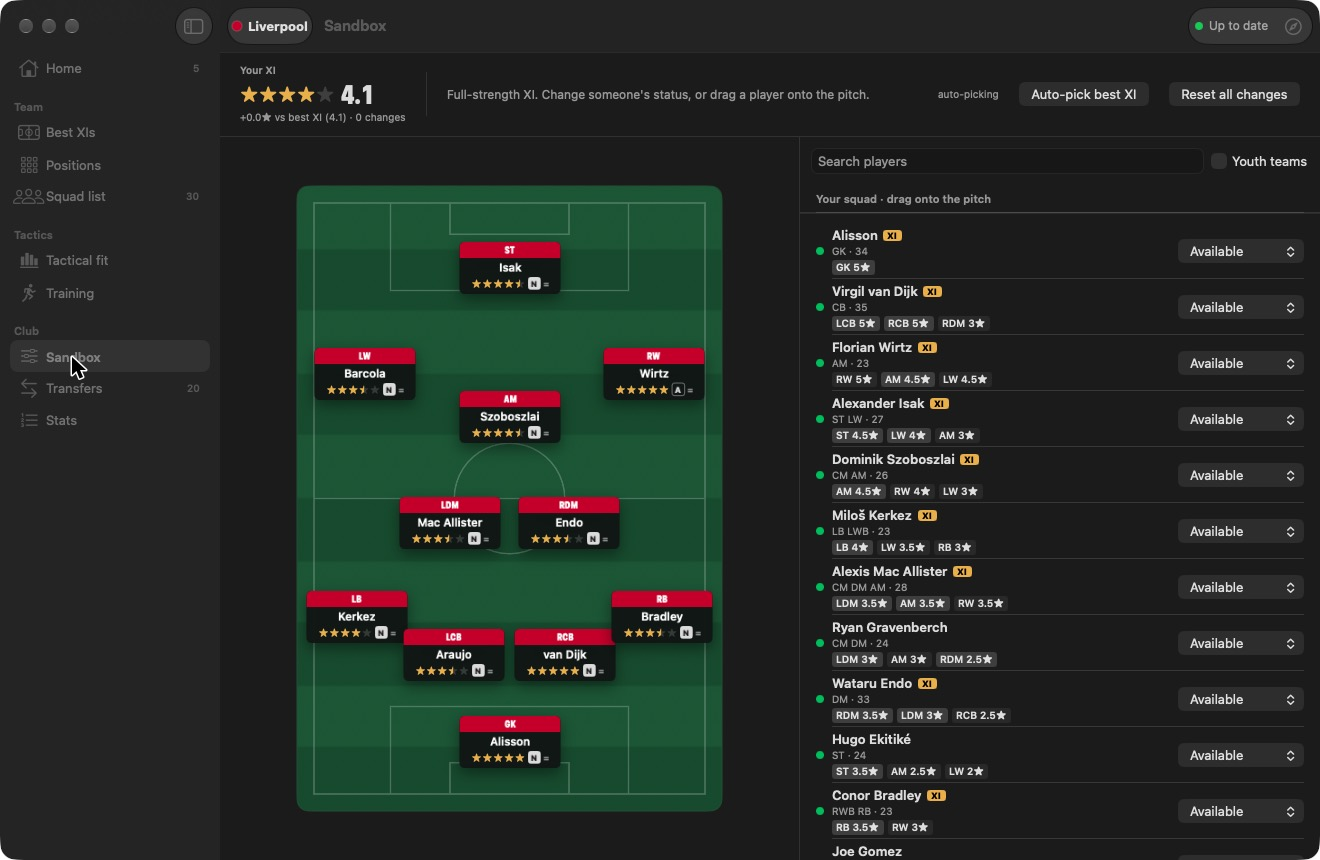
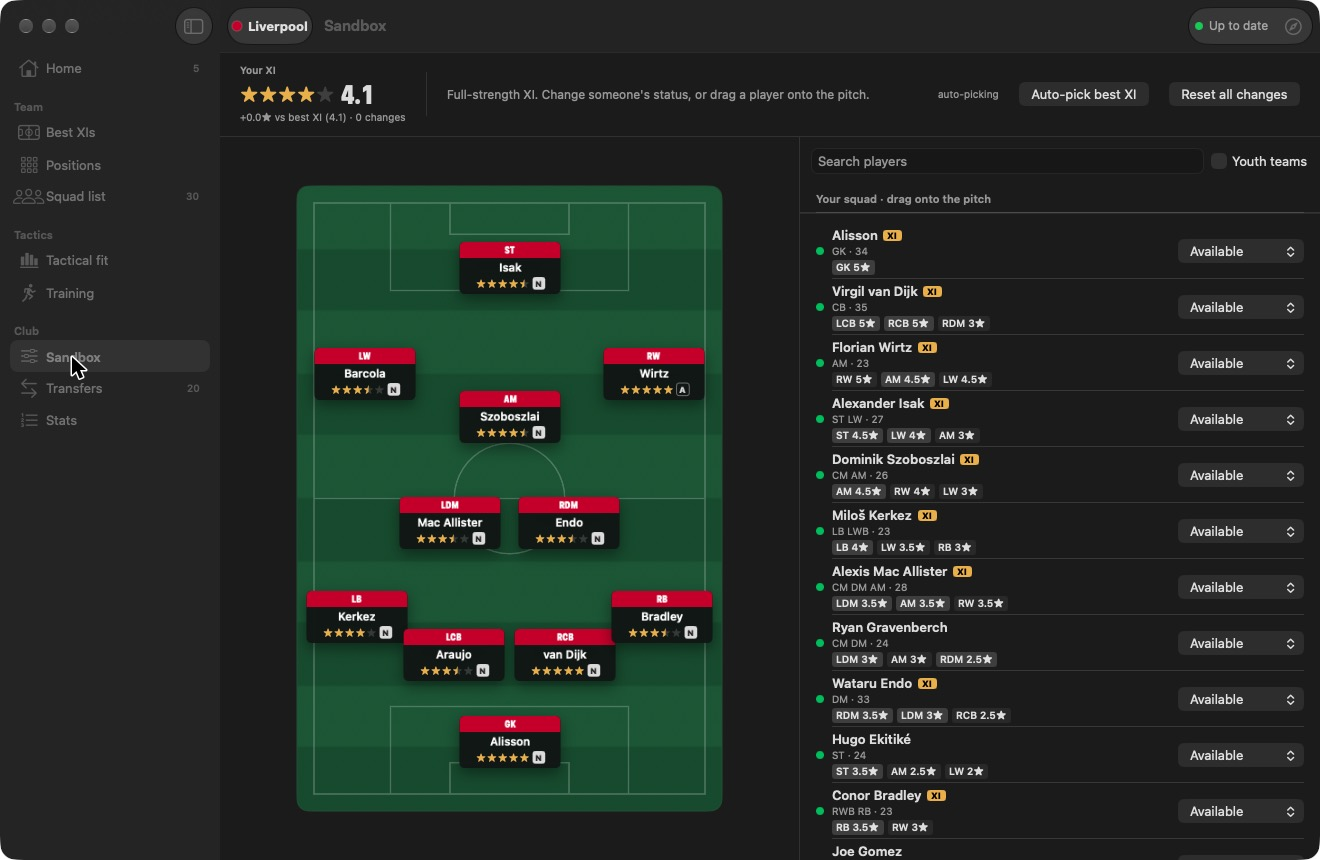
Mac app: real decimal points in the Glass numbers, no "=" on the Sandbox pitch
- Glass look: Doto's low full stop read like a comma ("£5,17m"); NumberText draws
  the "." in Geist Mono, so it's £5.17m and 4.1
- Sandbox pitch: a card only shows ↑/↓ when the slot differs from your best XI
- Fresh screenshots

diff --git a/mac/SquadReport/Views/SandboxView.swift b/mac/SquadReport/Views/SandboxView.swift
@@ -53,7 +53,7 @@ private struct ScoreBar: View {
                 Text("Your XI").font(.caption.weight(.semibold)).foregroundStyle(.secondary)
                 HStack(spacing: 6) {
                     StarsView(value: avg, size: 15)
-                    Text(String(format: "%.1f", avg)).numberFont(26)
+                    NumberText(String(format: "%.1f", avg), size: 26)
                 }
                 Text("\(diff >= 0 ? "+" : "")\(String(format: "%.1f", diff))★ vs best XI (\(String(format: "%.1f", level))) · \(model.changes) change\(model.changes == 1 ? "" : "s")")
                     .font(.caption).foregroundStyle(.secondary)
@@ -133,10 +133,12 @@ private struct SlotCard: View {
                         StarsView(value: rating.stars, size: 9)
                         FamiliarityBadge(code: rating.fam).colorScheme(.dark)
                     }
-                    Text(delta == 0 ? "=" : "\(delta > 0 ? "+" : "−")\(Fmt.stars(abs(delta)))★")
-                        .font(.system(size: 9, weight: .heavy))
-                        .foregroundStyle(delta > 0 ? Palette.transferIn : delta < 0 ? Palette.injuryLong : .secondary)
-                        .help("Against your best XI in this slot")
+                    if delta != 0 {   // only when it differs from your best XI in this slot
+                        Text("\(delta > 0 ? "↑" : "↓")\(Fmt.stars(abs(delta)))★")
+                            .font(.system(size: 9, weight: .heavy))
+                            .foregroundStyle(delta > 0 ? Palette.transferIn : Palette.injuryLong)
+                            .help("\(delta > 0 ? "Better" : "Worse") than your best XI in this slot by \(Fmt.stars(abs(delta)))★")
+                    }
                 }
                 .padding(.bottom, 5)
             }

diff --git a/mac/SquadReport/Views/Components/Theme.swift b/mac/SquadReport/Views/Components/Theme.swift
@@ -201,3 +201,31 @@ enum Fonts {
         CTFontManagerRegisterFontsForURLs(urls as CFArray, .process, nil)
     }
 }
+
+/// A big number in the look's number face. In glass that's Doto, whose dotted full stop sits low and reads like a comma
+/// ("£5,17m"), so the "." is drawn in Geist Mono and sits where a decimal point should.
+struct NumberText: View {
+    let text: String
+    let size: CGFloat
+    @Environment(\.theme) private var theme
+
+    init(_ text: String, size: CGFloat) {
+        self.text = text
+        self.size = size
+    }
+
+    var body: some View {
+        if theme.isGlass {
+            let parts = text.split(separator: ".", omittingEmptySubsequences: false).map(String.init)
+            parts.enumerated().reduce(Text("")) { acc, item in
+                let piece = Text(item.element).font(theme.number(size))
+                return item.offset == 0 ? acc + piece
+                    : acc + Text(".").font(.custom("GeistMono-Bold", size: size * 0.9)) + piece
+            }
+            .monospacedDigit()
+            .accessibilityLabel(text)
+        } else {
+            Text(text).font(theme.number(size)).monospacedDigit()
+        }
+    }
+}

diff --git a/mac/SquadReport/Views/StatsView.swift b/mac/SquadReport/Views/StatsView.swift
@@ -125,7 +125,7 @@ private struct Leaders: View {
         let fmt: (Double) -> String = { decimals ? String(format: "%.2f", $0) : String(Int($0)) }
         return VStack(alignment: .leading, spacing: 4) {
             Text(label).font(.callout).foregroundStyle(.secondary)
-            Text(top > 0 ? fmt(top) : "–").numberFont(34)
+            NumberText(top > 0 ? fmt(top) : "–", size: 34)
             Text(top > 0 ? (leaders.count == 2 ? "\(surname(leaders[0].name)) & \(surname(leaders[1].name))"
                             : leaders.count > 2 ? "\(leaders[0].name) +\(leaders.count - 1) more" : leaders.first?.name ?? "")
                          : "Nobody yet")

diff --git a/mac/SquadReport/Views/SquadListView.swift b/mac/SquadReport/Views/SquadListView.swift
@@ -313,7 +313,7 @@ private struct Summary: View {
         VStack(alignment: .leading, spacing: 4) {
             Text(label).font(.callout).foregroundStyle(.secondary)
             HStack(alignment: .firstTextBaseline, spacing: 5) {
-                Text(value).numberFont(28)
+                NumberText(value, size: 28)
                 if let unit { Text(unit).foregroundStyle(.secondary) }
             }
             Text(sub).font(.caption).foregroundStyle(.secondary).lineLimit(1)

diff --git a/mac/SquadReport/Views/HomeView.swift b/mac/SquadReport/Views/HomeView.swift
@@ -163,7 +163,7 @@ private struct Tile<Extra: View>: View {
         VStack(alignment: .leading, spacing: 6) {
             Text(label).font(.callout).foregroundStyle(.secondary)
             HStack(alignment: .firstTextBaseline, spacing: 6) {
-                Text(value).numberFont(34)
+                NumberText(value, size: 34)
                 if let unit { Text(unit).foregroundStyle(.secondary) }
             }
             extra()
